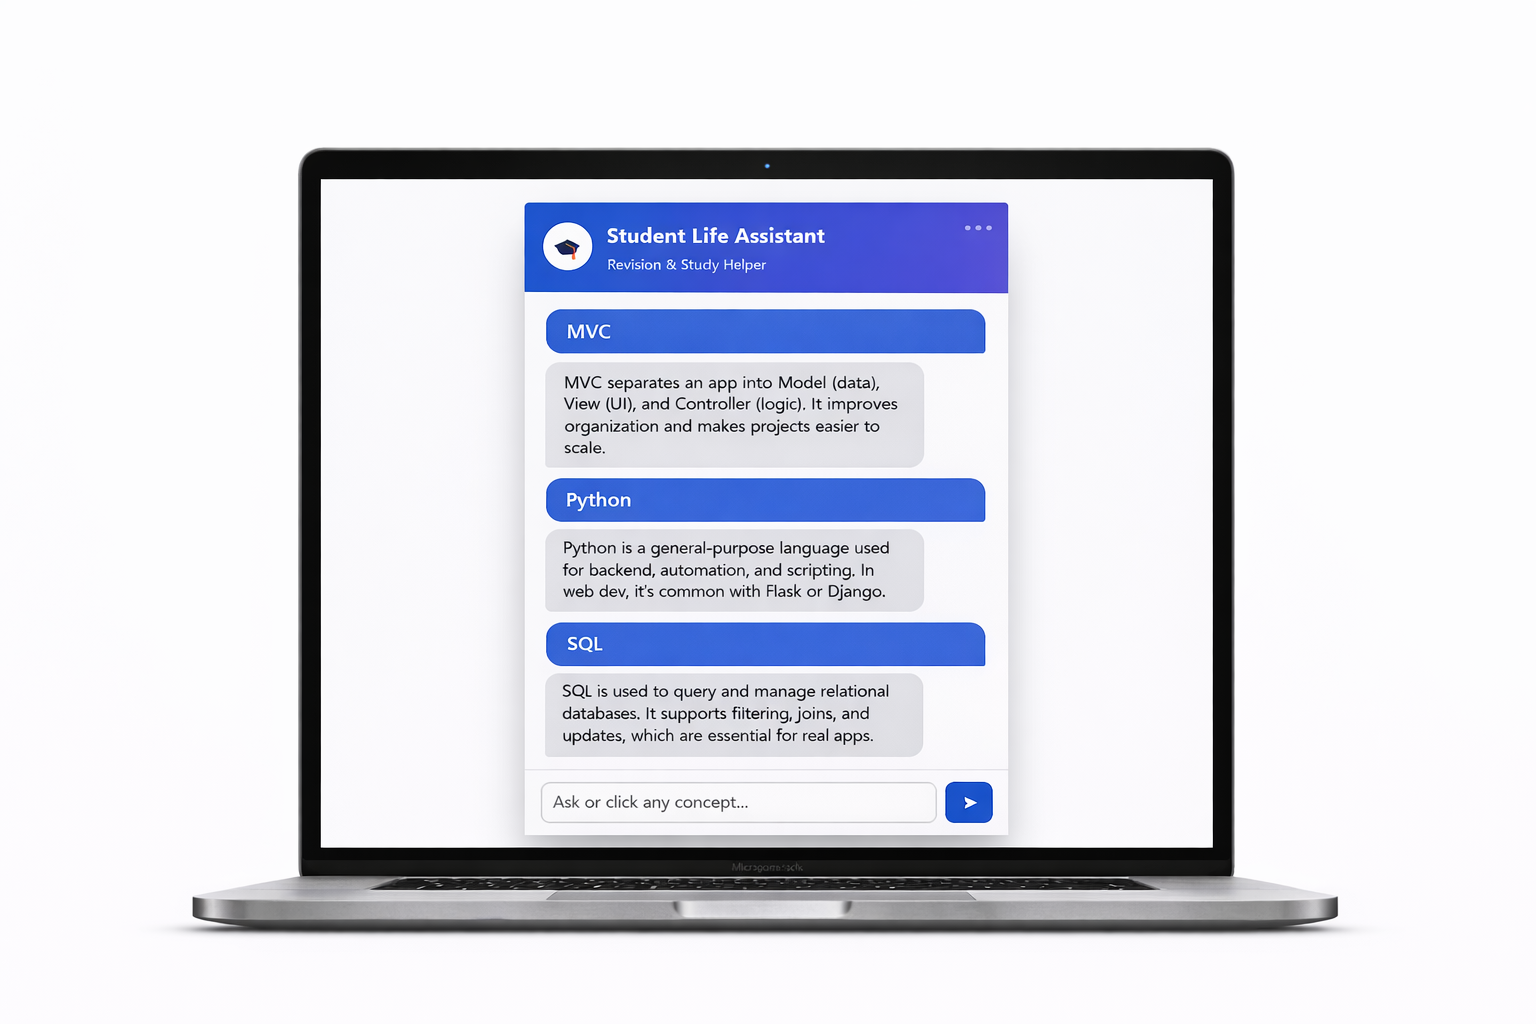
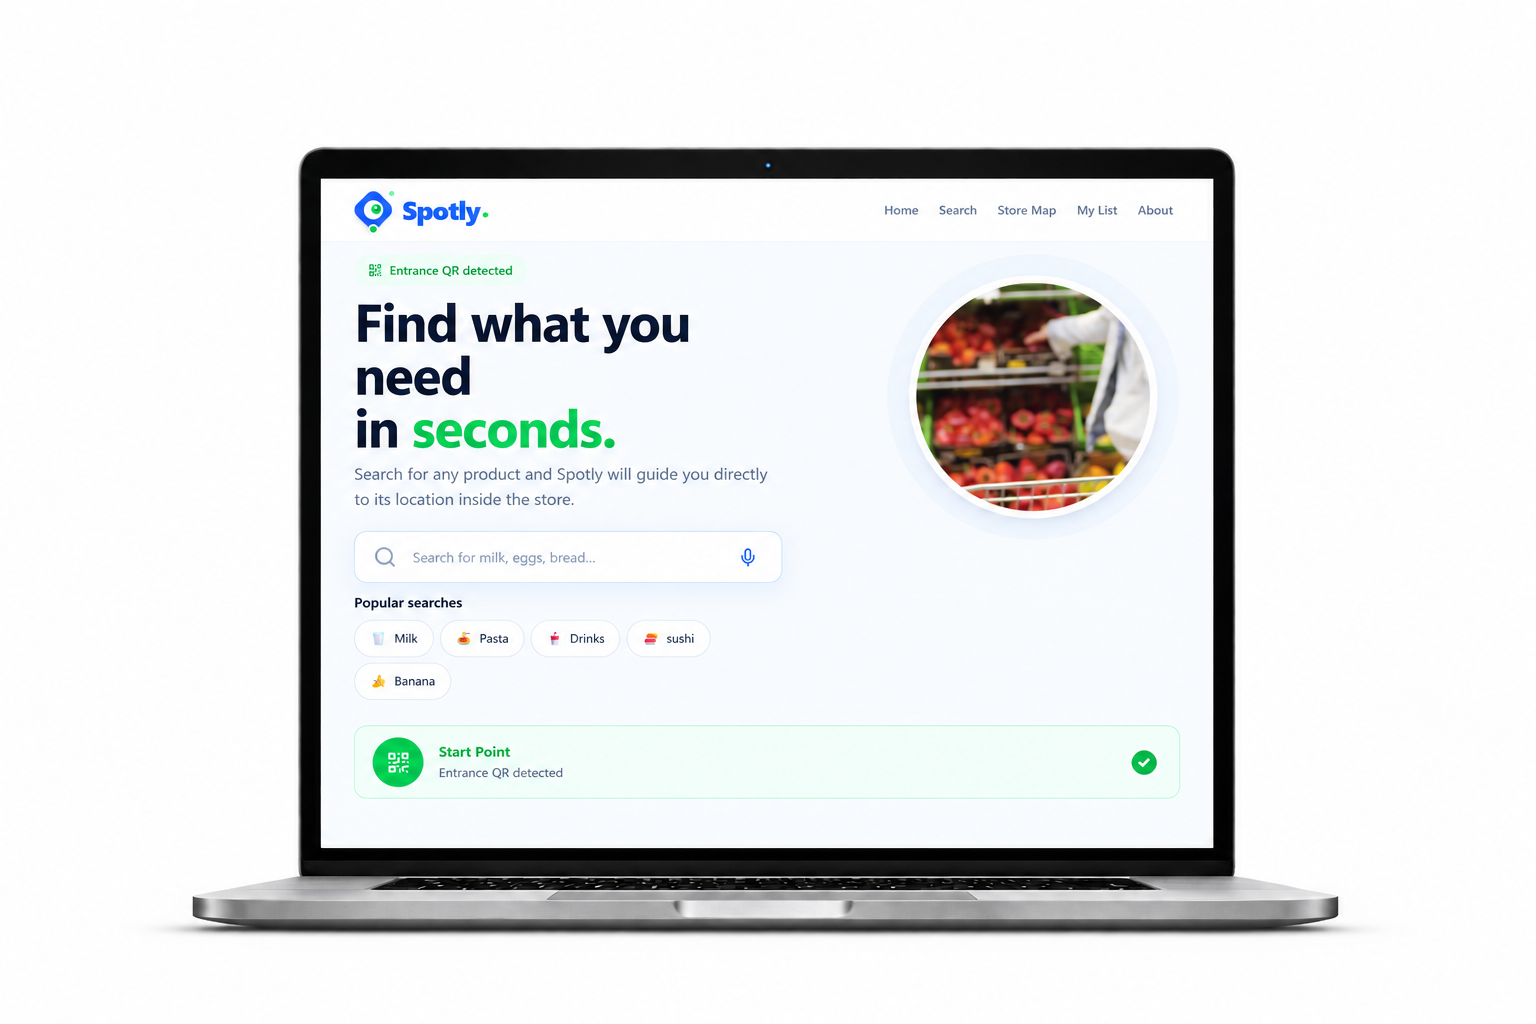
new project

diff --git a/src/components/portfolio/Portfolio.jsx b/src/components/portfolio/Portfolio.jsx
@@ -60,10 +60,10 @@ const projectData = [
     id: 4,
     slug: "",
     image: card60,
-    category: "Web Dev",
-    title: "Student Life Assistant",
-    description: "I developed a Student Life Assistant...",
-    link: "https://yassine-elamri34.github.io/studentLifeAssistant-Project/",
+    category: "Web Dev + AI",
+    title: "Spotly",
+    description: "Shop smarter, find faster...",
+    link: "https://spotly-zmfm.onrender.com/",
   },
 ];
 const Portfolio = () => {
